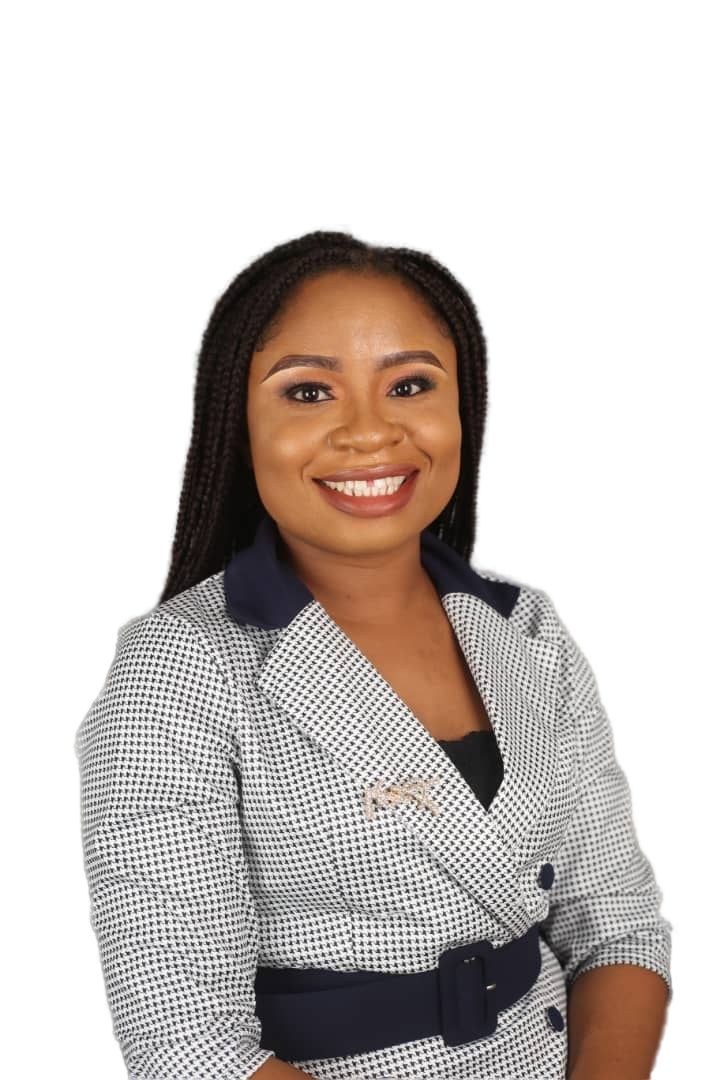
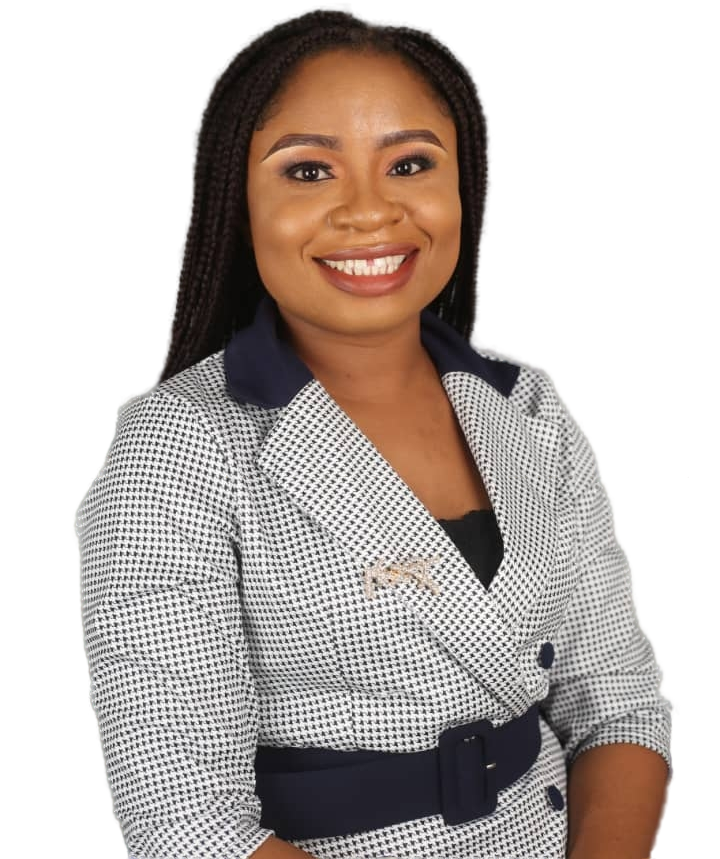
Fix: Update changes

diff --git a/assets/css/style.css b/assets/css/style.css
@@ -427,7 +427,7 @@ h6 {
 }
  
 #hero .container {
-  padding-top: 30px;
+  /* padding-top: 30px; */
   margin-left: 100px;
 }
 
@@ -439,15 +439,21 @@ h6 {
 #hero .image {
   float: left; /* align the image to the left */
   margin-right: 20px; /* adjust the margin as needed */
-  height: 473px;
+  height: 573px;
+
+}
+
+#hero .container .cover-image {
+  padding-top: 20px;
 }
 
 #hero .container .description {
   display: flex;
   flex-direction: column;
   justify-content: center;
-  align-items: center;
+  /* align-items: center; */
   margin-top: 40px;
+  margin-left: 200px;
 }
 
 
@@ -472,7 +478,7 @@ h6 {
 
   }
   #hero .image {
-    height: 300px;
+    height: 50%;
   }
   #hero .container {
     display: flex;
@@ -482,7 +488,7 @@ h6 {
   #hero .container .description {
     position: absolute;
     top: 350px;
-    padding-right: 50px;
+    padding-right: 150px;
   }
 }
 

diff --git a/index.html b/index.html
@@ -95,14 +95,12 @@
         <!-- You can delete the links only if you purchased the pro version. -->
         <!-- Licensing information: https://bootstrapmade.com/license/ -->
         <!-- Purchase the pro version with working PHP/AJAX contact form: https://bootstrapmade.com/kelly-free-bootstrap-cv-resume-html-template/ -->
-        Designed by <a href="https://ng.linkedin.com/in/grace-oliver-onyinye" target="_blank">GraceOliver</a>
+        Designed by <a href="https://bootstrapmade.com/">GraceOliver</a>
       </div>
     </div>
   </footer><!-- End  Footer -->
 
-  <div id="preloader"></div>
-  <a href="#" class="back-to-top d-flex align-items-center justify-content-center"><i class="bi bi-arrow-up-short"></i></a>
-
+  
   <!-- Vendor JS Files -->
   <script src="assets/vendor/purecounter/purecounter_vanilla.js"></script>
   <script src="assets/vendor/aos/aos.js"></script>

diff --git a/contact.html b/contact.html
@@ -164,7 +164,6 @@
 
   </main><!-- End #main -->
 
-  <!-- ======= Footer ======= -->
   <footer id="footer">
     <div class="container">
       <div class="copyright">
